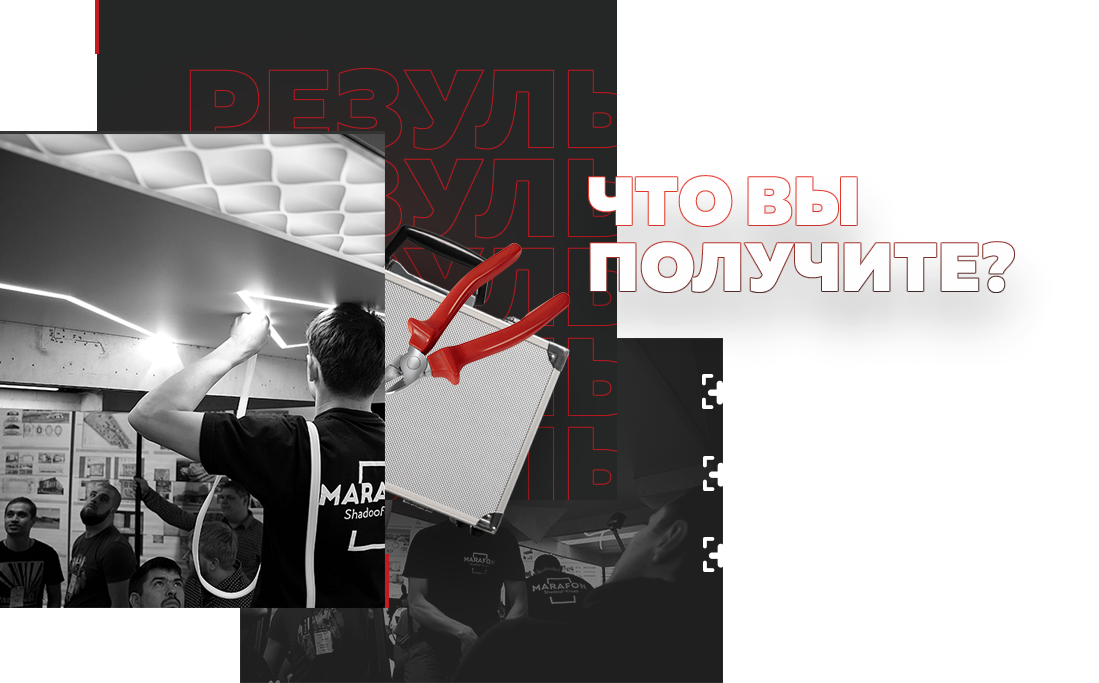
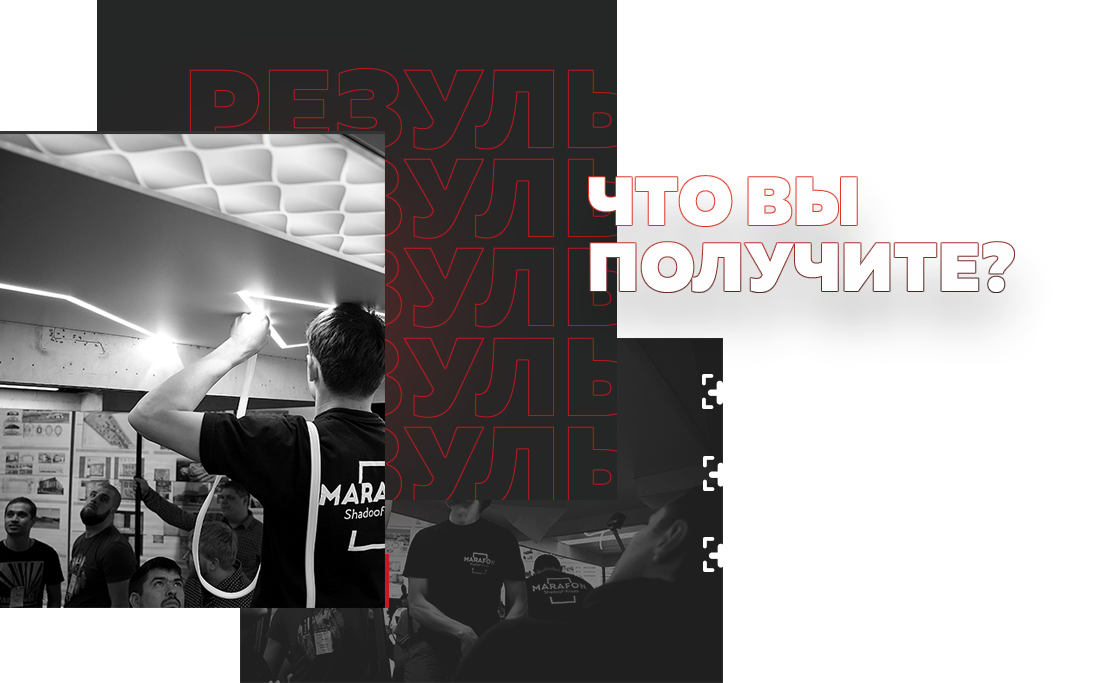
create new changed

Changed region(s): [[0.3403, 0.3382, 0.5259, 0.8302], [0.0619, 0.0, 0.0928, 0.0615]]

diff --git a/index.html b/index.html
@@ -431,7 +431,7 @@
 		<section class="section-useful">
 			<div class="container">
 				<div class="col-xl-12 col-lg-12 col-md-12 col-sm-12">
-					<img class="section-useful__img--1" src="img/9-layers.png" alt="">
+					<img class="section-useful__img--1" src="img/kak.png" alt="">
 					<img class="section-useful__img--2" src="img/98-layers.png" alt="">
 				</div>
 			</div>
@@ -578,7 +578,7 @@
 
 								<p class="days-section__text">
 									- С чего начинается проект, особенности замера, необходимые знания для правильного
-									снятия размеров.
+									снятия размеров. <br>
 									- Обзор зависимостей (какие размеры в приоритете, какие нет)
 									<br>
 									- Разбор главных ошибок при замере
